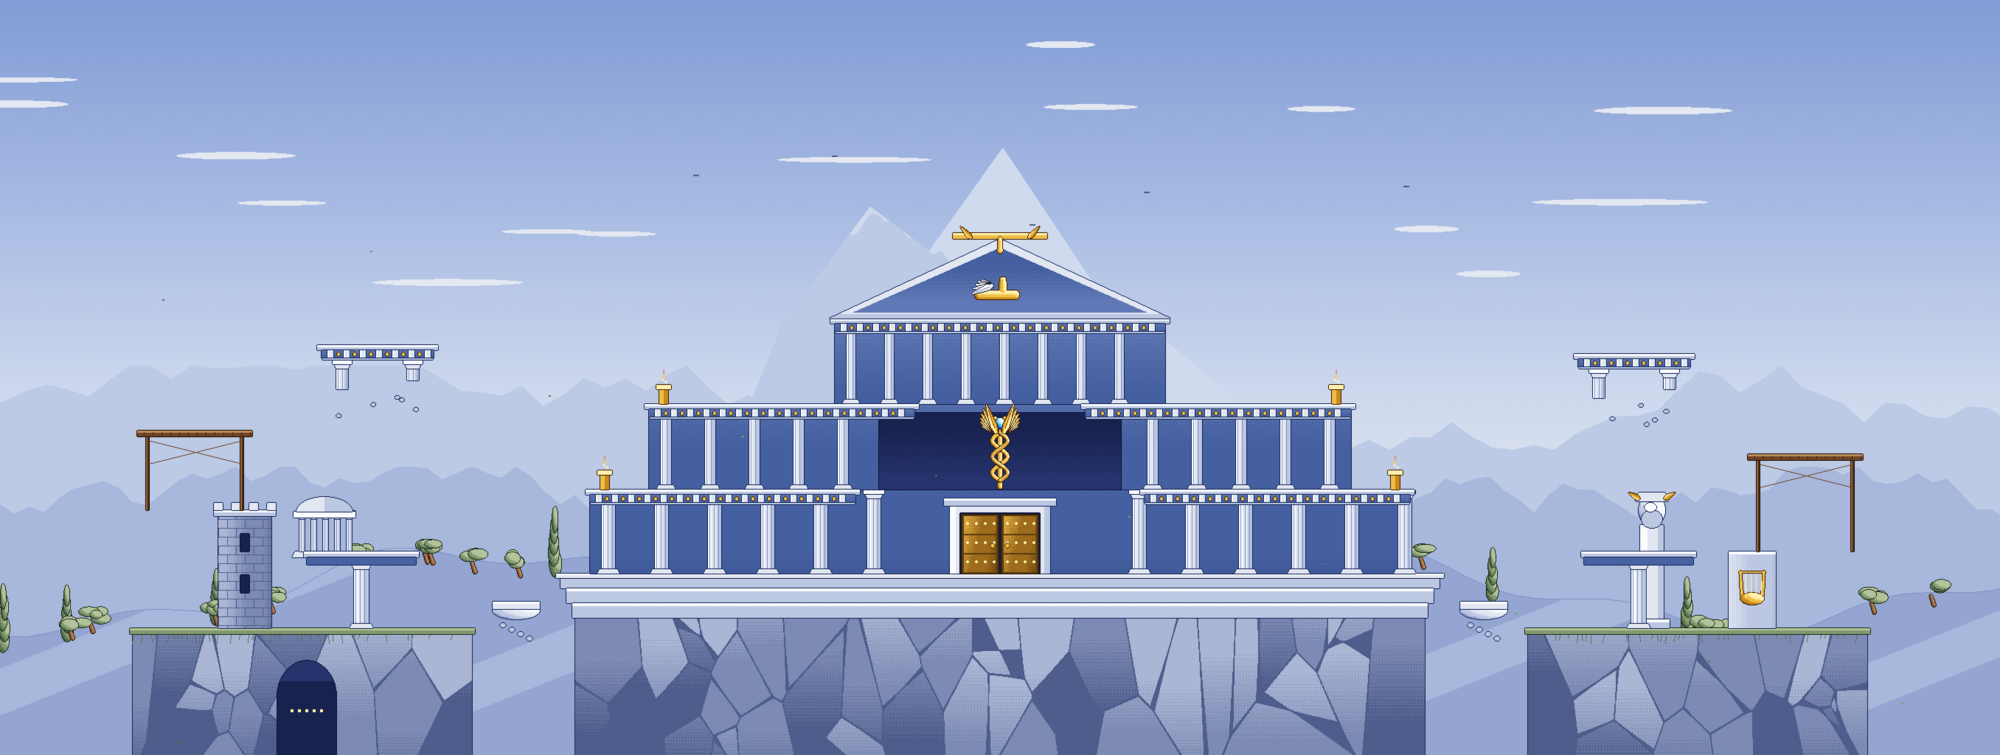
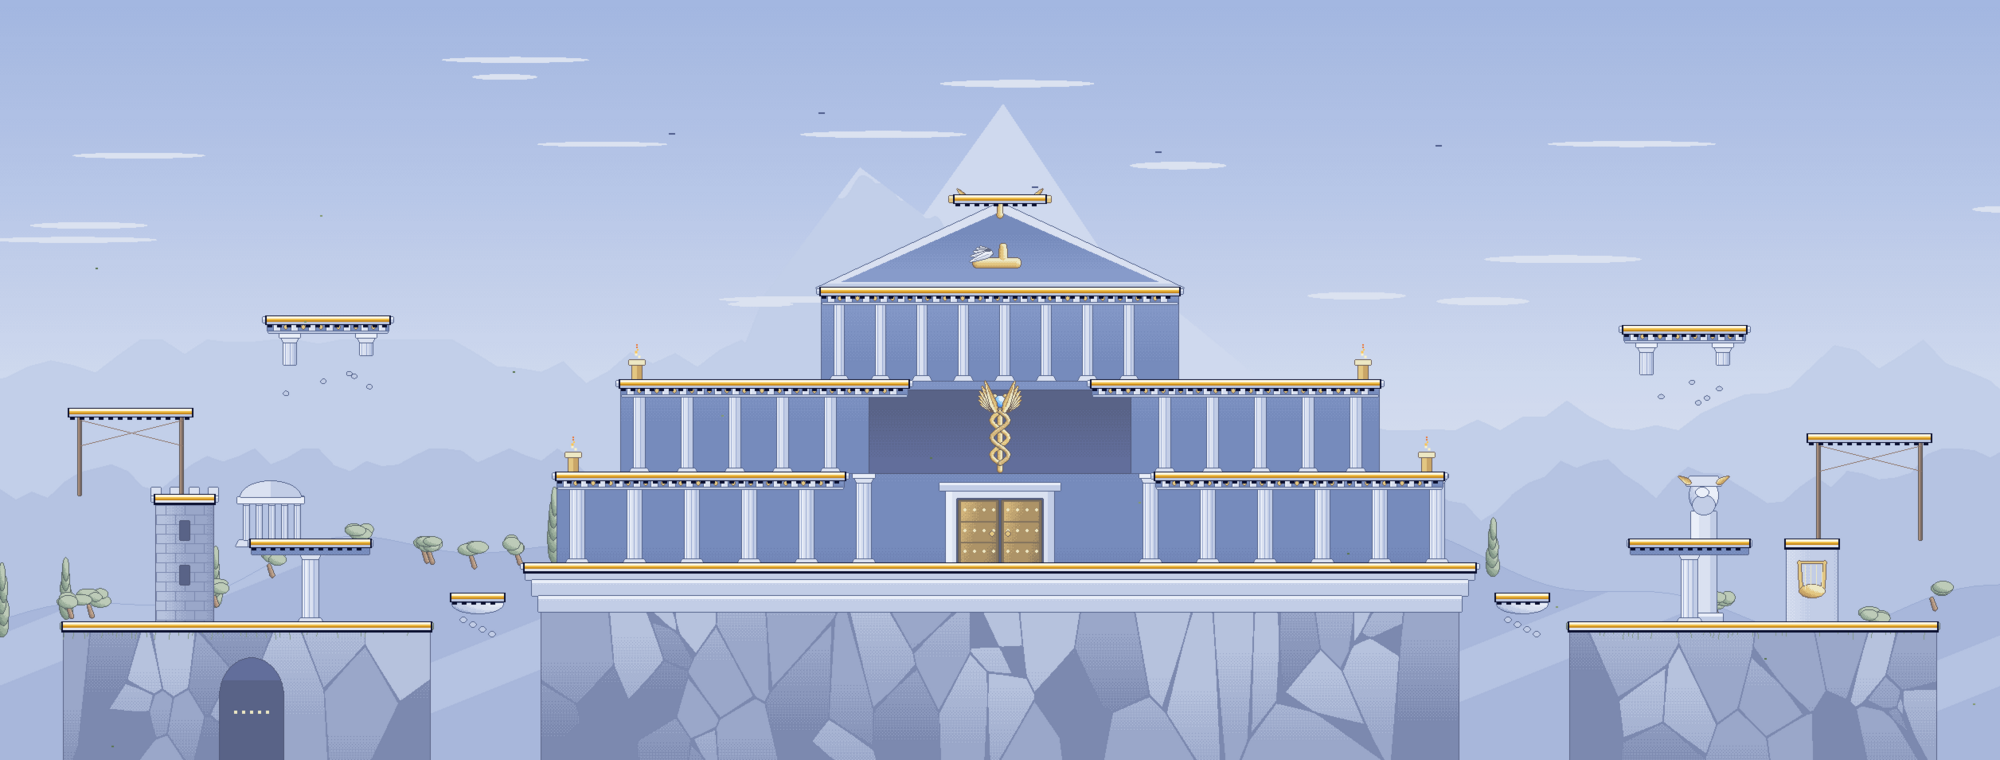
Update to v29: platform readability on Kyllene, Iris bridge edge marker
Claude-Session: https://claude.ai/code/session_019yDrWWUZceSGebwLDaMF73

diff --git a/game/pixel-hermes.html b/game/pixel-hermes.html
@@ -2440,6 +2440,26 @@ function stageColumn(B,x0,top,bot,w,mat,o={}){
   if (o.ionic){ ell(B,x0-2.6,top-2.8,1.8,1.8,mat,{flat:12}); ell(B,x0+w+2.6,top-2.8,1.8,1.8,mat,{flat:12}); }
   if (o.base!==false) poly(B,[[x0-1.5,bot-3],[x0+w+1.5,bot-3],[x0+w+3,bot],[x0-3,bot]],mat,{...o,flat:13}); }
 
+// big maps: a pale wash over the scenery, then every surface you can stand on drawn crisp on top:
+// a bright cream-and-gold top edge with a dark ink outline. Solid ground gets a solid dark underside;
+// pass-through floors get a dashed underside, so you can tell which ones you can jump up through.
+function hazeLayer(s,col){ const {LX,LY,LW,LH}=stageBounds(s); return {par:1, draw:g=>{ g.fillStyle=col; g.fillRect(LX,LY,LW,LH); }}; }
+function walkLayer(s){
+  const {LX,LY,LW,LH}=stageBounds(s), K=RES, cv=document.createElement('canvas'); cv.width=LW*K; cv.height=LH*K;
+  const g=cv.getContext('2d'), R=(x,y,w,h,c)=>{ g.fillStyle=c; g.fillRect(Math.round((x-LX)*K),Math.round((y-LY)*K),Math.round(w*K),Math.round(h*K)); };
+  const INKC='#0b1030', TOP='#fff8e2', GLD='#efbe46', GLD2='#c98a1c', FACE='#e2e7f2', FACE2='#bcc7e2';
+  const edge=(l,r,t,soft)=>{ const w=r-l;
+    R(l-1.5,t-1,w+3,soft?6:5.5,INKC);                 // ink outline
+    R(l-1,t-0.5,w+2,1.5,TOP);                         // lit walking surface
+    R(l-1,t+1,w+2,1,GLD); R(l-1,t+2,w+2,1,GLD2);      // gold band
+    R(l-1,t+3,w+2,soft?1.5:1.5,soft?FACE2:FACE);
+    if (soft){ for (let x=l;x<r-2;x+=6) R(x,t+5,3,1.5,INKC); }               // dashed underside = pass-through
+    else R(l-1.5,t+4.5,w+3,1.5,INKC);
+    R(l-1.5,t-1,1,soft?6:6,INKC); R(r+0.5,t-1,1,soft?6:6,INKC); };
+  for (const k of s.blocks||[]) edge(k.l,k.r,k.t,false);
+  for (const p of s.plats) edge(p.l,p.r,p.t,true);
+  return {par:1, cv, x:LX,y:LY,w:LW,h:LH}; }
+
 // ---- 1. Altar of the Agora: the original stage, art built above ----------------------------
 defStage({id:'altar', name:'ALTAR', full:'ALTAR OF THE AGORA',
   solids:SOLIDS.map(o=>({...o})), plats:PLATS.map(o=>({...o})), altar:{...ALTAR}, camb:{...CAMB}, spawns:[142,276],
@@ -2597,7 +2617,7 @@ defStage({id:'kyllene', name:'KYLLENE', full:'SANCTUARY OF KYLLENE', big:true, m
       // leaves drifting from the groves
       for (let i=0;i<12;i++){ const k=((t*0.05+i/12)%1), x=-420+((i*131+t*20)%1300), y=-100+k*360+Math.sin(t*2+i)*4;
         g.fillStyle=i%2?'#83996f':'#5a7550'; g.fillRect(snap(x),snap(y),1.5,1); } }};
-    return {back:[far,mid,fg,fx], front:[]};
+    return {back:[far,mid,fg,hazeLayer(s,'rgba(205,216,238,0.36)'),walkLayer(s),fx], front:[]};
   }});
 
 const STAGE_IDS=Object.keys(STAGES);
@@ -3360,8 +3380,13 @@ function kiDrawBack(){
     const h=-Math.PI/2+q.t*TAU/q.life; sg.fillStyle='#f2b84a'; for (let r=0;r<q.r-8;r+=0.5) sg.fillRect(q.x+Math.cos(h)*r-1,q.y+Math.sin(h)*r-1,2,2); pxDisc(q.x,q.y,2,'#5a2fa8');
     sg.globalAlpha=1; }
   for (const p of PLATS) if (p.temp){ const k=p.temp.t/p.temp.life, blink=k>0.75 && Math.floor(p.temp.t*12)%2;
-    if (blink) continue; for (let j=0;j<RB_COLS.length;j++){ sg.fillStyle=RB_COLS[j]; sg.fillRect(p.l,p.t+j*0.75,p.r-p.l,0.75); }
-    sg.fillStyle='#ffffff'; for (let x=p.l+((p.temp.t*40)%8);x<p.r;x+=8) sg.fillRect(x,p.t,1.5,0.75); }
+    if (blink) continue; const w=p.r-p.l;
+    // same standable-edge marker as the stages: ink outline, cream top, gold band, dashed ink underside (rainbow body between)
+    sg.fillStyle='#0b1030'; sg.fillRect(p.l-0.5,p.t-0.5,w+1,0.5); sg.fillRect(p.l-0.5,p.t-0.5,0.5,5.5); sg.fillRect(p.r,p.t-0.5,0.5,5.5);
+    sg.fillStyle='#fff8e2'; sg.fillRect(p.l,p.t,w,0.5); sg.fillStyle='#efbe46'; sg.fillRect(p.l,p.t+0.5,w,0.5); sg.fillStyle='#c98a1c'; sg.fillRect(p.l,p.t+1,w,0.5);
+    for (let j=0;j<RB_COLS.length;j++){ sg.fillStyle=RB_COLS[j]; sg.fillRect(p.l,p.t+1.5+j*0.5,w,0.5); }
+    sg.fillStyle='#0b1030'; for (let x=p.l;x<p.r;x+=2) sg.fillRect(x,p.t+4.5,1,0.5);
+    sg.fillStyle='#ffffff'; for (let x=p.l+((p.temp.t*40)%8);x<p.r-1;x+=8) sg.fillRect(x,p.t,1.5,0.5); }
   for (const q of puddles){ const k=q.t/q.life, w=q.w*(k>0.85?(1-k)/0.15:1)*Math.min(1,q.t*8);
     for (let dy=-2.5;dy<=0.5;dy+=0.5){ const u=(dy+1)/1.75, ww=w*Math.sqrt(Math.max(0,1-u*u)); sg.fillStyle=dy<-1.5?'#2a3f6c':dy<0?'#3e6ea8':'#1e2c50'; sg.fillRect(Math.round((q.x-ww-1)*2)/2,q.y+dy,Math.round((ww*2+2)*2)/2,0.5); }
     sg.fillStyle='#9ad8e8'; sg.fillRect(q.x-w*0.5+Math.sin(q.t*3)*2,q.y-1.5,4,0.5); sg.fillStyle='#ffffff'; sg.fillRect(q.x+w*0.3-Math.sin(q.t*2)*2,q.y-1,1.5,0.5); }

diff --git a/stages/stages.js b/stages/stages.js
@@ -108,6 +108,26 @@ function stageColumn(B,x0,top,bot,w,mat,o={}){
   if (o.ionic){ ell(B,x0-2.6,top-2.8,1.8,1.8,mat,{flat:12}); ell(B,x0+w+2.6,top-2.8,1.8,1.8,mat,{flat:12}); }
   if (o.base!==false) poly(B,[[x0-1.5,bot-3],[x0+w+1.5,bot-3],[x0+w+3,bot],[x0-3,bot]],mat,{...o,flat:13}); }
 
+// big maps: a pale wash over the scenery, then every surface you can stand on drawn crisp on top:
+// a bright cream-and-gold top edge with a dark ink outline. Solid ground gets a solid dark underside;
+// pass-through floors get a dashed underside, so you can tell which ones you can jump up through.
+function hazeLayer(s,col){ const {LX,LY,LW,LH}=stageBounds(s); return {par:1, draw:g=>{ g.fillStyle=col; g.fillRect(LX,LY,LW,LH); }}; }
+function walkLayer(s){
+  const {LX,LY,LW,LH}=stageBounds(s), K=RES, cv=document.createElement('canvas'); cv.width=LW*K; cv.height=LH*K;
+  const g=cv.getContext('2d'), R=(x,y,w,h,c)=>{ g.fillStyle=c; g.fillRect(Math.round((x-LX)*K),Math.round((y-LY)*K),Math.round(w*K),Math.round(h*K)); };
+  const INKC='#0b1030', TOP='#fff8e2', GLD='#efbe46', GLD2='#c98a1c', FACE='#e2e7f2', FACE2='#bcc7e2';
+  const edge=(l,r,t,soft)=>{ const w=r-l;
+    R(l-1.5,t-1,w+3,soft?6:5.5,INKC);                 // ink outline
+    R(l-1,t-0.5,w+2,1.5,TOP);                         // lit walking surface
+    R(l-1,t+1,w+2,1,GLD); R(l-1,t+2,w+2,1,GLD2);      // gold band
+    R(l-1,t+3,w+2,soft?1.5:1.5,soft?FACE2:FACE);
+    if (soft){ for (let x=l;x<r-2;x+=6) R(x,t+5,3,1.5,INKC); }               // dashed underside = pass-through
+    else R(l-1.5,t+4.5,w+3,1.5,INKC);
+    R(l-1.5,t-1,1,soft?6:6,INKC); R(r+0.5,t-1,1,soft?6:6,INKC); };
+  for (const k of s.blocks||[]) edge(k.l,k.r,k.t,false);
+  for (const p of s.plats) edge(p.l,p.r,p.t,true);
+  return {par:1, cv, x:LX,y:LY,w:LW,h:LH}; }
+
 // ---- 1. Altar of the Agora: the original stage, art built above ----------------------------
 defStage({id:'altar', name:'ALTAR', full:'ALTAR OF THE AGORA',
   solids:SOLIDS.map(o=>({...o})), plats:PLATS.map(o=>({...o})), altar:{...ALTAR}, camb:{...CAMB}, spawns:[142,276],
@@ -265,7 +285,7 @@ defStage({id:'kyllene', name:'KYLLENE', full:'SANCTUARY OF KYLLENE', big:true, m
       // leaves drifting from the groves
       for (let i=0;i<12;i++){ const k=((t*0.05+i/12)%1), x=-420+((i*131+t*20)%1300), y=-100+k*360+Math.sin(t*2+i)*4;
         g.fillStyle=i%2?'#83996f':'#5a7550'; g.fillRect(snap(x),snap(y),1.5,1); } }};
-    return {back:[far,mid,fg,fx], front:[]};
+    return {back:[far,mid,fg,hazeLayer(s,'rgba(205,216,238,0.36)'),walkLayer(s),fx], front:[]};
   }});
 
 const STAGE_IDS=Object.keys(STAGES);

diff --git a/feel-lab/LOG.md b/feel-lab/LOG.md
@@ -165,3 +165,8 @@ Justin: arms, elbows, shoulders and hands looked like puppets. New drawLimb(): t
 - Engine: specHeld input (K/L/C or right mouse), slow-field dt scaling for fighters and shots, temp platforms, piercing shots. Fixed: rise up-specials did nothing from the ground (Hermes too). Kairos tether grab now reaches close foes. Design notes hidden per fighter.
 - Tuning: Kairos run .97 air .72 grav .84 fall 278 weight .92; Iris air .78 fall 280 dJump 296; smash KO power trimmed; Kairos dair hovers.
 - Lab (lab.cjs now takes --ch): quick 98.5 for all four; full with matches 98.4. Video: videos/v28-kairos-iris.mp4.
+
+## v29 (2026-11-10) Stage drop 3: clearer floors
+- apply-stages.cjs refreshed the stage block (Kyllene: pale wash behind scenery, cream/gold standable edges, solid vs dashed undersides).
+- Iris's Bridge of Heaven now draws the same edge marker (ink outline, #fff8e2 top, gold band, dashed ink underside) over its rainbow.
+- Lab quick 98.5 (all four). Video: videos/v29-floors.mp4.
